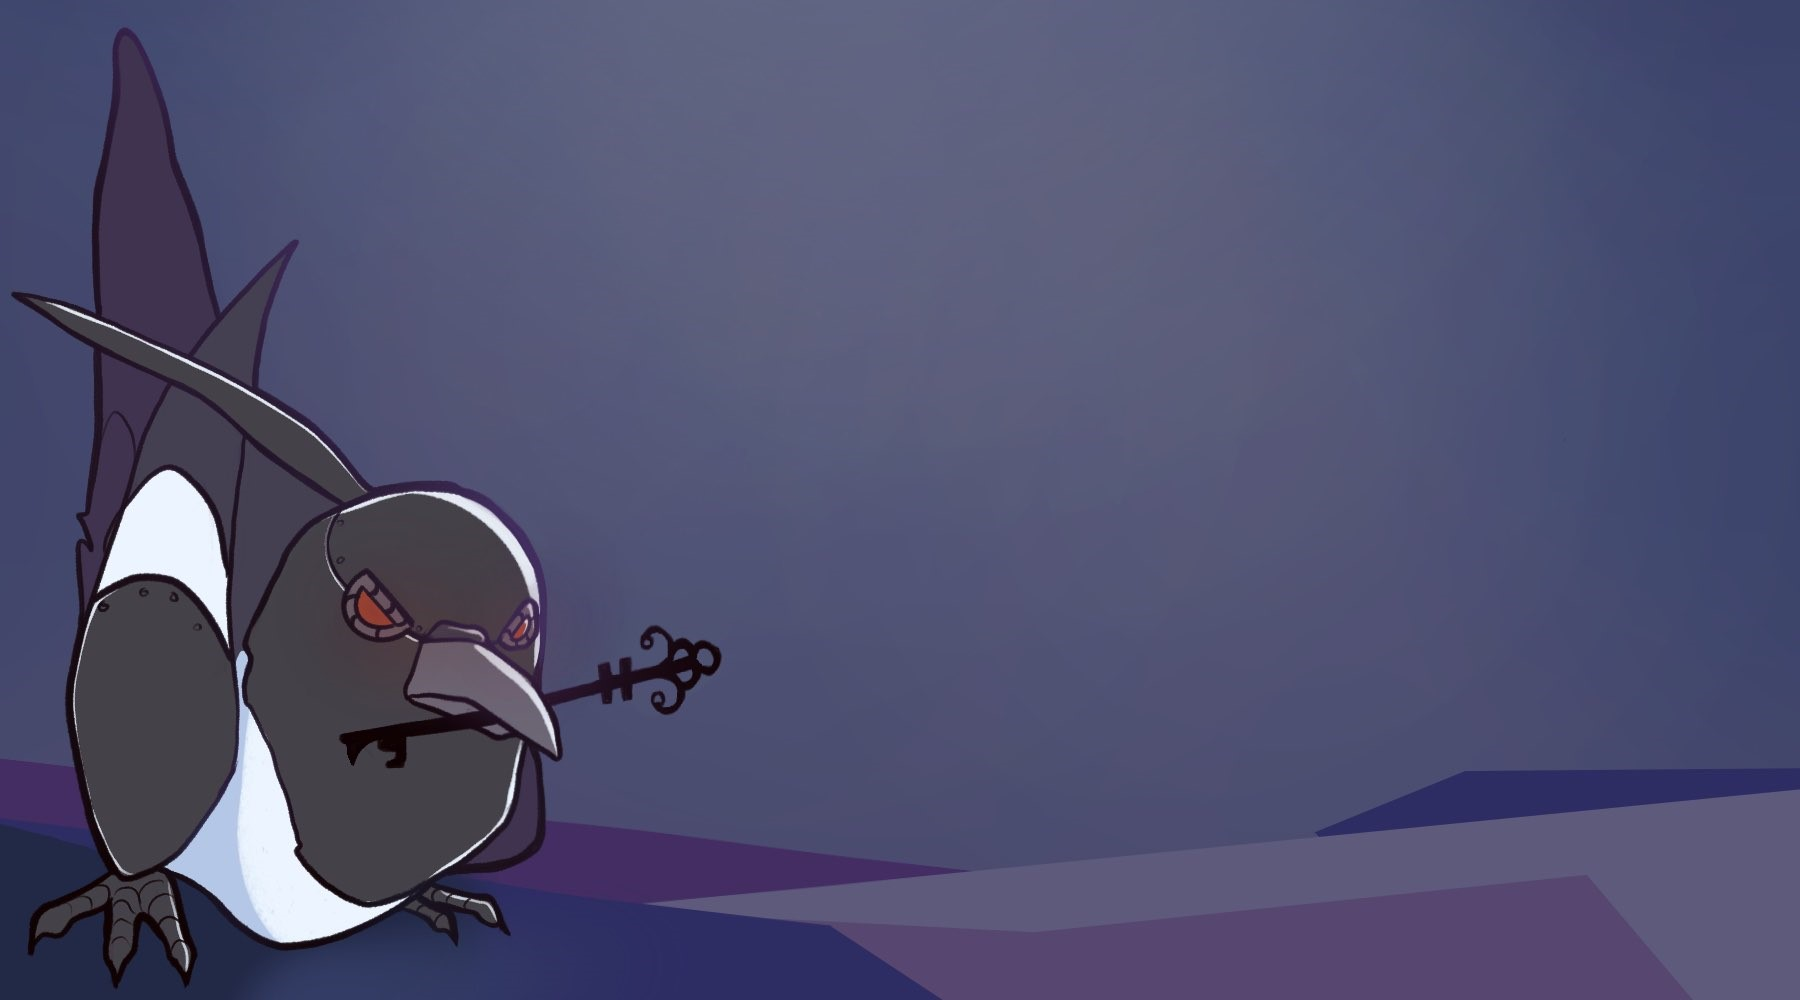
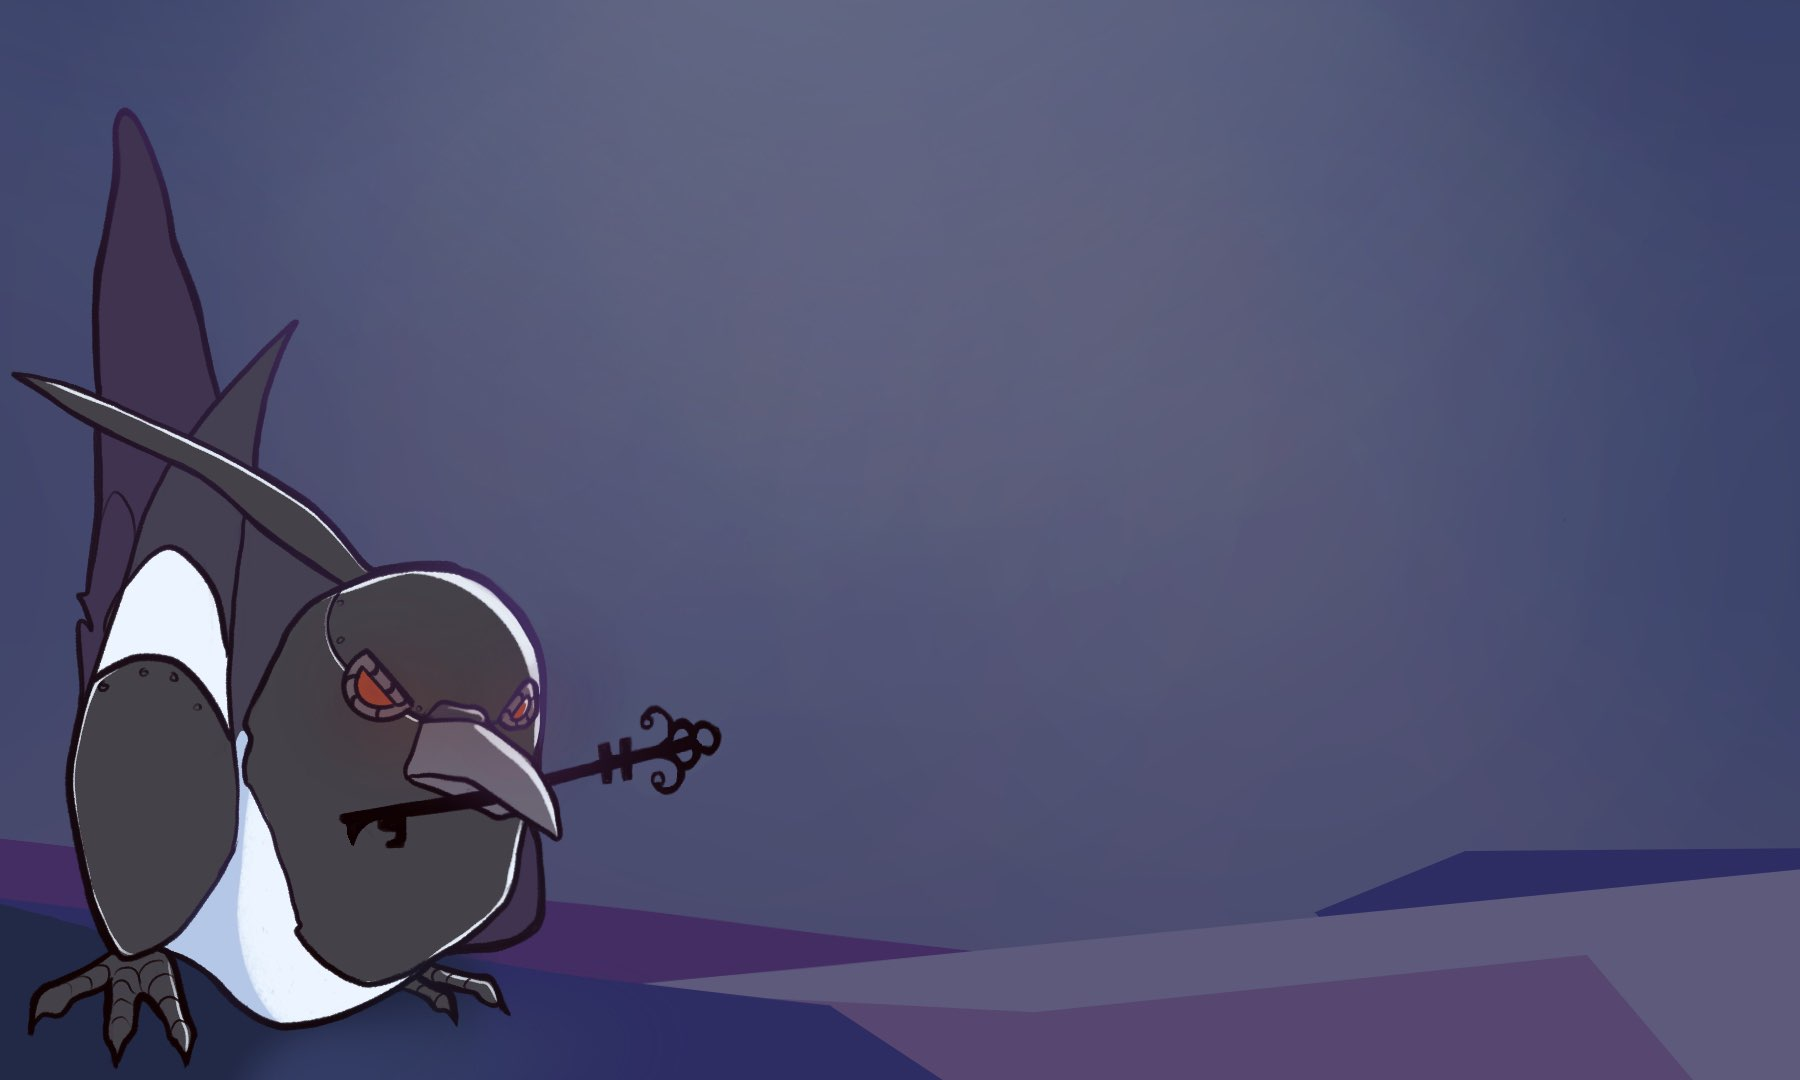
fixed responsive and background
should now be more pretty, background shows bird until mobile width is reached. Then just plain-bg, and text does better job of working around birb :)

Changed region(s): [[0.0, 0.155, 0.5289, 0.961], [0.7156, 0.744, 1.0, 0.868], [0.0311, 0.031, 0.0933, 0.248]]

diff --git a/src/App.vue b/src/App.vue
@@ -1,14 +1,15 @@
 <template>
-  <div class="relative w-full bg-black bg-fixed bg-cover" :style="{backgroundImage:`url(${bgImage})`}" id="outer-container">
-  <div id="outer-container">
-    <!-- PAGE RENDER -->
-    <router-view />
+  <div class="relative w-full bg-black bg-cover bg-right sm:bg-left-bottom"
+    :style="{ backgroundImage: `url(${bgImage})` }" id="outer-container">
+    <div id="outer-container">
+      <!-- PAGE RENDER -->
+      <router-view />
 
-    <!-- FOOTER -->
-    <FooterComponent />
+      <!-- FOOTER -->
+      <FooterComponent />
 
+    </div>
   </div>
-</div>
 </template>
 
 <style>
@@ -41,7 +42,7 @@ export default {
   data () {
     return {
       visible: true,
-      bgImage: require('./assets/assets24/nonBlurryBG.jpg')
+      bgImage: require('./assets/assets24/blurryBG.jpg')
     }
   }
 }

diff --git a/src/components/TimerComponent.vue b/src/components/TimerComponent.vue
@@ -1,10 +1,10 @@
 <template>
   <VueCountdown :time="new Date('Feb 24, 2024 16:00:00 GMT-0700').getTime() - new Date().getTime()">
     <template v-slot="props">
-      <div class="h-screen flex items-end justify-end">
-        <div class="font-semibold text-center text-5xl mr-32 mb-32 inline-block">
-          <div class="mx-10 neon-grey-2">
-            <p>MagpieCTF 2024</p>
+      <div class="h-screen flex justify-center items-center lg:items-end lg:justify-end">
+        <div class="font-semibold text-center text-5xl lg:mb-16 lg:mr-16 xl:mr-40 xl:mb-32 inline-block">
+          <div class="mx-10 mb-3 neon-grey-2">
+            <p class="test-3xl">MagpieCTF 2024</p>
           </div>
           <div>
             <div class="inline-block mx-10 neon-grey-2">
